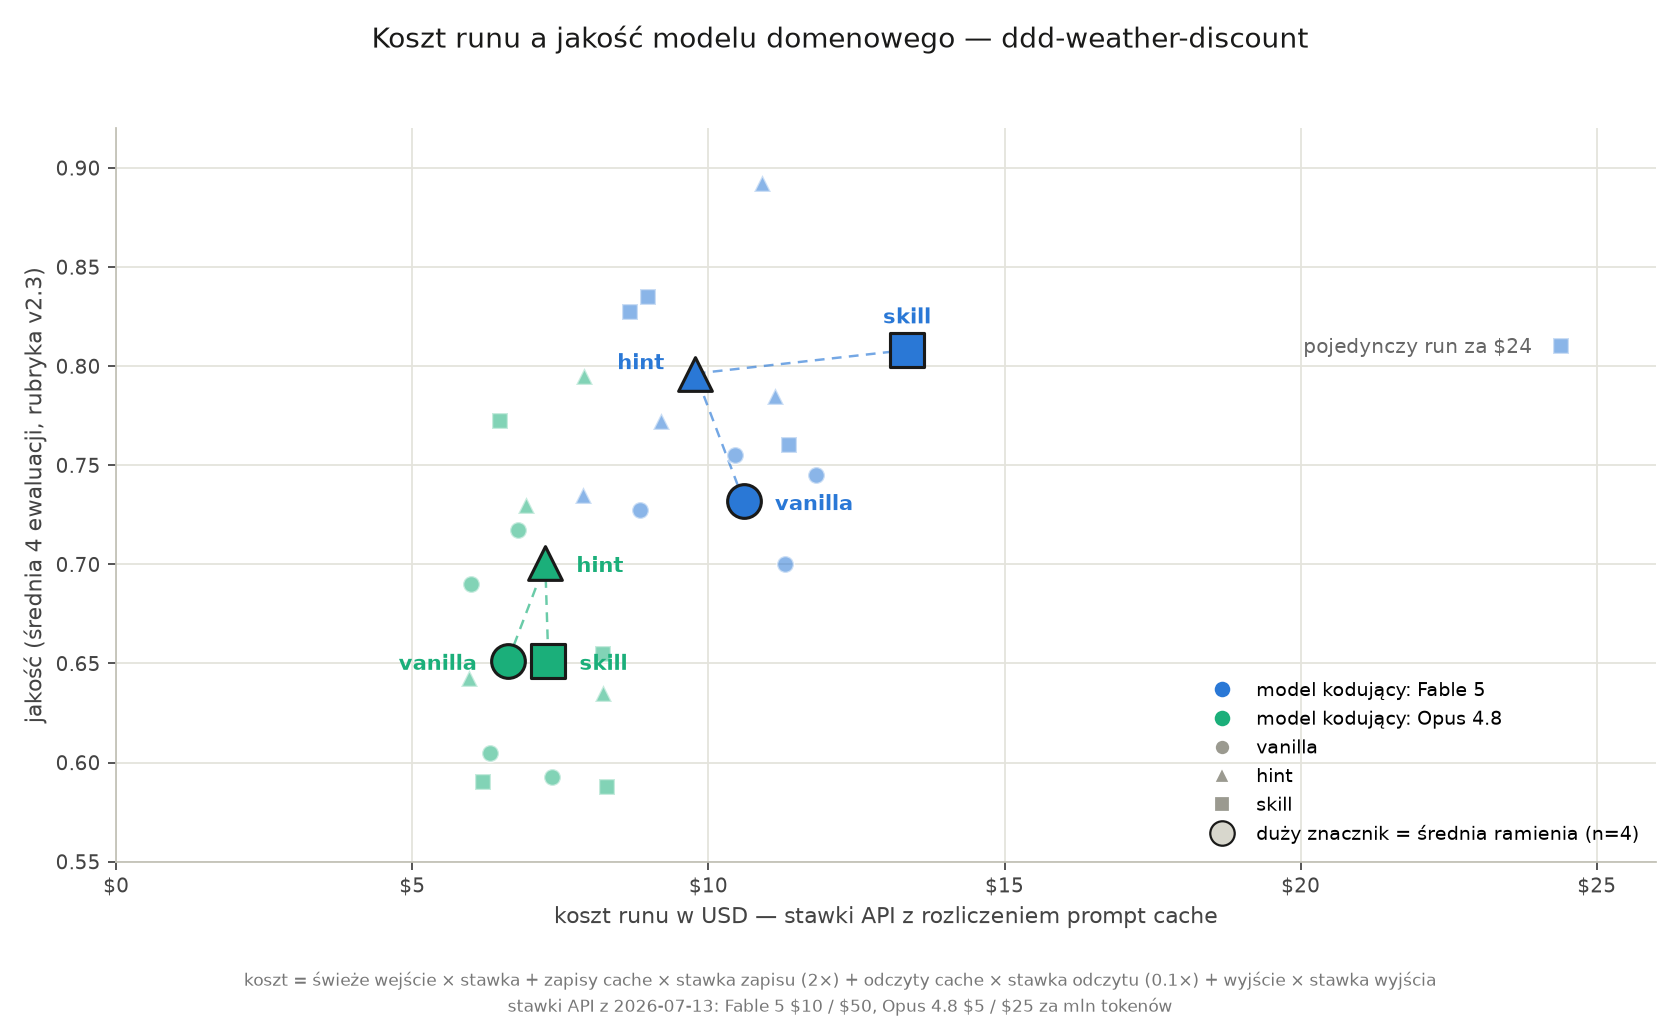
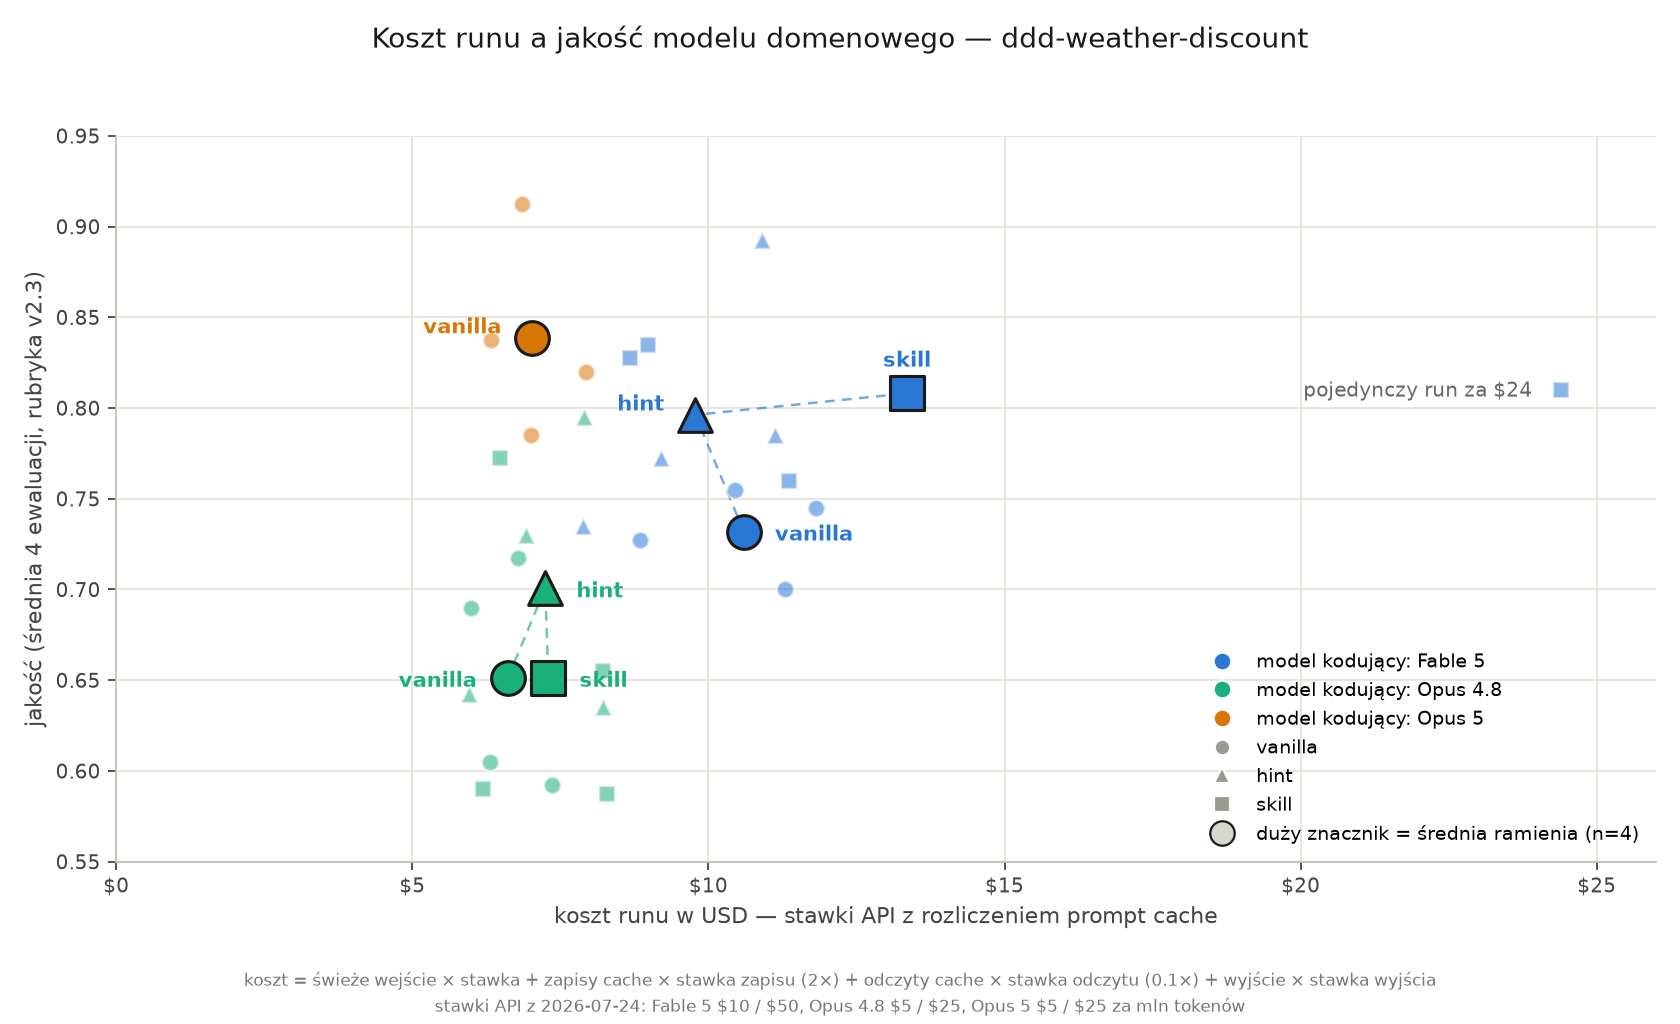
viz: add Opus 5 vanilla arm to the cost-quality plane (PL+EN)
Arm n=4 (i9ivEds, m82SdTE, Yi8S8wA, Wipg7XN): $7.03 / 0.839. Judge panel
frozen at 2x Fable + 2x Opus 4.8 via explicit JUDGES set so the opus-5-judge
pilot evals never enter the means. Third coder color #d97706 validated
(CVD worst-pair dE 10.7). as_of bumped to 2026-07-24 (all three Claude
entries re-verified against the pricing page).

Claude-Session: https://claude.ai/code/session_0112rjaT9dWVPXhqm2FCQQPh

diff --git a/examples/ddd-architectural-challenges/cost_quality_plane.py b/examples/ddd-architectural-challenges/cost_quality_plane.py
@@ -1,4 +1,4 @@
-"""Cost x quality plane for the 24-trial Fable/Opus grid (PL + EN publication PNGs).
+"""Cost x quality plane for the Fable/Opus grid + the Opus 5 vanilla arm (PL + EN PNGs).
 
 X = cache-aware run cost (ADR-014): fresh input at the full rate, cache writes at
 the 1h-cache write rate, cache reads at the cached rate, output at the output rate
@@ -26,9 +26,13 @@ ARMS: dict[tuple[str, str], list[str]] = {
     ("Opus 4.8", "vanilla"): ["GoWvUz6", "cyQyXFc", "JTgey8p", "Lozfurr"],
     ("Opus 4.8", "hint"): ["YgcbZjf", "VoktgLb", "sSUYQp4", "a6okSgZ"],
     ("Opus 4.8", "skill"): ["ZMX6Xbq", "TsjcHWY", "Bkwiqom", "F5vYATs"],
+    ("Opus 5", "vanilla"): ["i9ivEds", "m82SdTE", "Yi8S8wA", "Wipg7XN"],
 }
-MODEL_ID = {"Fable 5": "claude-fable-5", "Opus 4.8": "claude-opus-4-8"}
-CODER_COLOR = {"Fable 5": "#2a78d6", "Opus 4.8": "#1baf7a"}
+MODEL_ID = {"Fable 5": "claude-fable-5", "Opus 4.8": "claude-opus-4-8", "Opus 5": "claude-opus-5"}
+# The article's judge panel is frozen at 2x Fable + 2x Opus 4.8; evals by other
+# judge models (e.g. the claude-opus-5 judge pilot) must not enter the means.
+JUDGES = {"claude-fable-5", "claude-opus-4-8"}
+CODER_COLOR = {"Fable 5": "#2a78d6", "Opus 4.8": "#1baf7a", "Opus 5": "#d97706"}
 CONFIG_MARKER = {"vanilla": "o", "hint": "^", "skill": "s"}
 INK = "#1a1a19"
 
@@ -45,7 +49,7 @@ TEXT = {
             "koszt = świeże wejście × stawka + zapisy cache × stawka zapisu (2×) "
             "+ odczyty cache × stawka odczytu (0.1×) + wyjście × stawka wyjścia\n"
             "stawki API z {as_of}: Fable 5 \\${fi:.0f} / \\${fo:.0f}, "
-            "Opus 4.8 \\${oi:.0f} / \\${oo:.0f} za mln tokenów"
+            "Opus 4.8 \\${oi:.0f} / \\${oo:.0f}, Opus 5 \\${o5i:.0f} / \\${o5o:.0f} za mln tokenów"
         ),
         "out": "cost_quality_plane.png",
     },
@@ -60,7 +64,7 @@ TEXT = {
             "cost = fresh input × input rate + cache writes × write rate (2×) "
             "+ cache reads × read rate (0.1×) + output × output rate\n"
             "API rates as of {as_of}: Fable 5 \\${fi:.0f} / \\${fo:.0f}, "
-            "Opus 4.8 \\${oi:.0f} / \\${oo:.0f} per MTok"
+            "Opus 4.8 \\${oi:.0f} / \\${oo:.0f}, Opus 5 \\${o5i:.0f} / \\${o5o:.0f} per MTok"
         ),
         "out": "cost_quality_plane_en.png",
     },
@@ -74,6 +78,7 @@ LABEL_OFFSET = {
     ("Opus 4.8", "vanilla"): (-14, -4, "right"),
     ("Opus 4.8", "hint"): (14, -4, "left"),
     ("Opus 4.8", "skill"): (14, -4, "left"),
+    ("Opus 5", "vanilla"): (-14, 2, "right"),
 }
 
 
@@ -84,7 +89,9 @@ def load_rates() -> dict:
         "fo": raw["claude-fable-5"]["output_per_1m"],
         "oi": raw["claude-opus-4-8"]["input_per_1m"],
         "oo": raw["claude-opus-4-8"]["output_per_1m"],
-        "as_of": raw["claude-fable-5"]["as_of"],
+        "o5i": raw["claude-opus-5"]["input_per_1m"],
+        "o5o": raw["claude-opus-5"]["output_per_1m"],
+        "as_of": raw["claude-opus-5"]["as_of"],
         "by_model": {
             m: (
                 raw[m]["input_per_1m"],
@@ -92,7 +99,7 @@ def load_rates() -> dict:
                 raw[m]["cached_input_per_1m"],
                 raw[m]["cache_write_per_1m"],
             )
-            for m in ("claude-fable-5", "claude-opus-4-8")
+            for m in ("claude-fable-5", "claude-opus-4-8", "claude-opus-5")
         },
     }
 
@@ -112,7 +119,7 @@ def collect(rates: dict) -> list[dict]:
             scores = []
             for f in sorted(trial_dir.glob("assessment_eval_*.json")):
                 d = json.loads(f.read_text())
-                if d.get("dimensions_fingerprint") == FP and d.get("evaluator_model") in MODEL_ID.values():
+                if d.get("dimensions_fingerprint") == FP and d.get("evaluator_model") in JUDGES:
                     scores.append(d["normalized_score"])
             if len(scores) != 4:
                 print(f"WARN: {trial} has {len(scores)} v2.3 evals (expected 4)")
@@ -154,14 +161,17 @@ def plane_plot(rows: list[dict], rates: dict, lang: str) -> None:
         ax.annotate(config, (mc, mq), textcoords="offset points", xytext=(dx, dy),
                     ha=ha, fontsize=9.5, color=col, fontweight="bold", zorder=6)
 
-    # per-coder trajectory through the arm means, in config order
+    # per-coder trajectory through the arm means, in config order (skip configs
+    # a coder was not run under — Opus 5 has a vanilla arm only)
     for coder in CODER_COLOR:
         pts = []
         for config in ("vanilla", "hint", "skill"):
             sub = [r for r in rows if r["coder"] == coder and r["config"] == config]
-            pts.append((sum(r["cost"] for r in sub) / len(sub), sum(r["q"] for r in sub) / len(sub)))
-        ax.plot([p[0] for p in pts], [p[1] for p in pts], color=CODER_COLOR[coder],
-                linewidth=1.1, linestyle=(0, (4, 3)), alpha=0.65, zorder=2)
+            if sub:
+                pts.append((sum(r["cost"] for r in sub) / len(sub), sum(r["q"] for r in sub) / len(sub)))
+        if len(pts) > 1:
+            ax.plot([p[0] for p in pts], [p[1] for p in pts], color=CODER_COLOR[coder],
+                    linewidth=1.1, linestyle=(0, (4, 3)), alpha=0.65, zorder=2)
 
     top = max(rows, key=lambda r: r["cost"])
     ax.annotate(t["outlier"].format(cost=top["cost"]), (top["cost"], top["q"]),
@@ -169,7 +179,7 @@ def plane_plot(rows: list[dict], rates: dict, lang: str) -> None:
                 fontsize=8.8, color="#666", zorder=6)
 
     ax.set_xlim(0, 26)
-    ax.set_ylim(0.55, 0.92)
+    ax.set_ylim(0.55, 0.95)
     ax.set_xlabel(t["xlabel"], fontsize=10, color="#444")
     ax.set_ylabel(t["ylabel"], fontsize=10, color="#444")
     ax.tick_params(labelsize=9, colors="#444")
